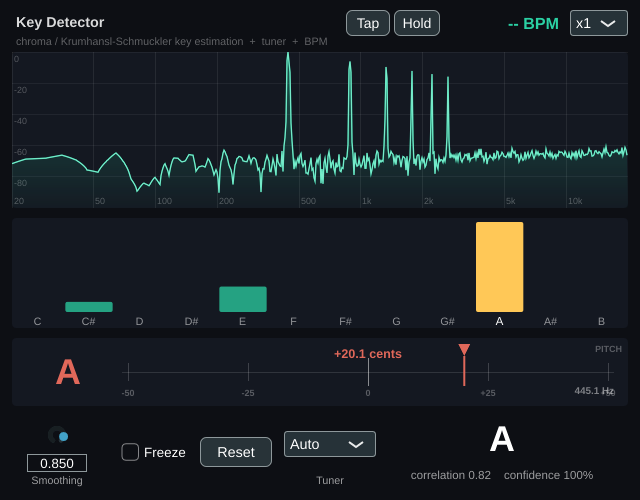
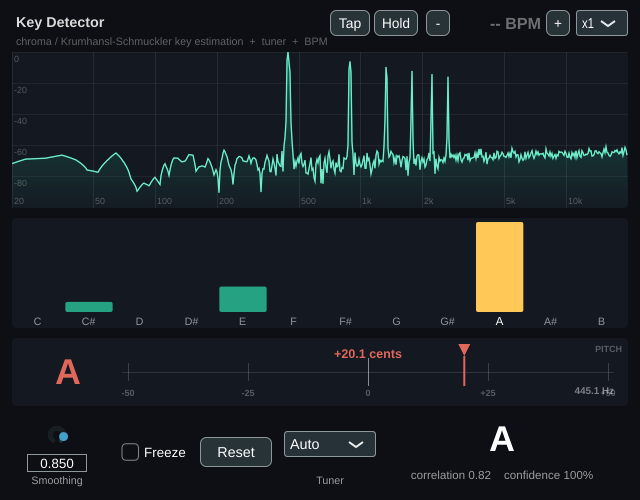
bpm ui: T/H shortcuts, -/+ fine-tune, and x-mult applies to held BPM
- Tap/Hold get keyboard shortcuts (T/H) via Button::addShortcut; editor wants
  keyboard focus (EDITOR_WANTS_KEYBOARD_FOCUS TRUE).
- Add -/+ buttons to fine-tune BPM by 0.1 (auto-engages Hold).
- Move the x0.5/x1/x2 multiplier from the processor into the editor so it rescales
  the base *and* a held value; processor now publishes the raw estimate.
- BPM readout is fully numeric now: displayed = base*factor (+ fineOffset when
  held); base = tap or audio estimate, or the value captured at Hold.

Changed region(s): [[0.5, 0.0, 0.7188, 0.09], [0.7812, 0.0, 0.9375, 0.09]]

diff --git a/Source/PluginEditor.cpp b/Source/PluginEditor.cpp
@@ -28,14 +28,16 @@ KeyDetectorAudioProcessorEditor::KeyDetectorAudioProcessorEditor (KeyDetectorAud
     bpmLabel.setText ("-- BPM", juce::dontSendNotification);
     addAndMakeVisible (bpmLabel);
 
-    // BPM octave multiplier (fixes half/double-time), next to the tempo readout.
+    // BPM octave multiplier (fixes half/double-time; also rescales a held BPM).
     tempoMultBox.addItemList ({ "x0.5", "x1", "x2" }, 1);
-    tempoMultBox.setTooltip ("Halve / double the detected BPM");
+    tempoMultBox.setTooltip ("Halve / double the BPM (also rescales a held value)");
     addAndMakeVisible (tempoMultBox);
     tempoMultAttachment = std::make_unique<ComboBoxAttachment> (
         processorRef.apvts, "tempoMult", tempoMultBox);
 
-    // Tap tempo: derive BPM from the spacing of button presses.
+    // Tap tempo (shortcut: T): derive BPM from the spacing of button presses.
+    tapButton.setTooltip ("Tap tempo (shortcut: T)");
+    tapButton.addShortcut (juce::KeyPress ('t'));
     addAndMakeVisible (tapButton);
     tapButton.onClick = [this]
     {
@@ -59,14 +61,41 @@ KeyDetectorAudioProcessorEditor::KeyDetectorAudioProcessorEditor (KeyDetectorAud
         holdButton.setToggleState (false, juce::dontSendNotification);
     };
 
-    // Hold: freeze the BPM read-out at its current value.
+    // Hold (shortcut: H): freeze the BPM read-out; captures the current base value.
     holdButton.setClickingTogglesState (true);
+    holdButton.setTooltip ("Freeze the BPM (shortcut: H). Then use -/+ and x0.5/x1/x2.");
+    holdButton.addShortcut (juce::KeyPress ('h'));
     addAndMakeVisible (holdButton);
     holdButton.onClick = [this]
     {
         if (holdButton.getToggleState())
-            heldBpmText = lastLiveBpmText; // capture whatever is shown right now
+        {
+            heldBaseBpm = currentLiveBase > 0.0 ? currentLiveBase
+                        : (tappedBpm > 0.0 ? tappedBpm : 120.0);
+            fineOffset  = 0.0;
+        }
     };
+
+    // Fine-tune -/+ (engages Hold if not already held).
+    auto nudge = [this] (double delta)
+    {
+        if (! holdButton.getToggleState())
+        {
+            heldBaseBpm = currentLiveBase > 0.0 ? currentLiveBase
+                        : (tappedBpm > 0.0 ? tappedBpm : 120.0);
+            fineOffset  = 0.0;
+            holdButton.setToggleState (true, juce::dontSendNotification);
+        }
+        fineOffset += delta;
+    };
+    bpmDownButton.setTooltip ("Fine-tune BPM down (-0.1)");
+    bpmUpButton  .setTooltip ("Fine-tune BPM up (+0.1)");
+    bpmDownButton.onClick = [nudge] { nudge (-0.1); };
+    bpmUpButton  .onClick = [nudge] { nudge (+0.1); };
+    addAndMakeVisible (bpmDownButton);
+    addAndMakeVisible (bpmUpButton);
+
+    setWantsKeyboardFocus (true); // so the T / H shortcuts are received
 
     // --- Controls ---------------------------------------------------------------
     smoothingSlider.setSliderStyle (juce::Slider::RotaryHorizontalVerticalDrag);
@@ -128,16 +157,18 @@ void KeyDetectorAudioProcessorEditor::resized()
 {
     auto area = getLocalBounds().reduced (12);
 
-    // Header row (top-right): [Tap][Hold]  BPM  [×½/×1/×2]
+    // Header row (top-right): [Tap][Hold]  [-] BPM [+]  [×½/×1/×2]
     {
         auto header = juce::Rectangle<int> (area.getX(), 10, area.getWidth(), 26);
-        tempoMultBox.setBounds (header.removeFromRight (58));
+        tempoMultBox.setBounds (header.removeFromRight (52));
         header.removeFromRight (6);
-        bpmLabel.setBounds (header.removeFromRight (116));
+        bpmUpButton.setBounds (header.removeFromRight (24));
+        bpmLabel.setBounds (header.removeFromRight (96));
+        bpmDownButton.setBounds (header.removeFromRight (24));
         header.removeFromRight (8);
-        holdButton.setBounds (header.removeFromRight (46));
+        holdButton.setBounds (header.removeFromRight (44));
         header.removeFromRight (4);
-        tapButton.setBounds (header.removeFromRight (44));
+        tapButton.setBounds (header.removeFromRight (40));
     }
 
     area.removeFromTop (40); // header
@@ -190,33 +221,37 @@ void KeyDetectorAudioProcessorEditor::timerCallback()
     chroma.setTonic (est.pitchClass, est.isMinor);
     chroma.repaint();
 
-    // Tempo read-out: Hold (frozen) > Tap (recent taps) > audio estimate.
-    // Source is shown by colour: green = audio, blue = tap, amber = hold.
-    const double now = juce::Time::getMillisecondCounterHiRes();
+    // Tempo read-out.  Colour: green = audio, blue = tapped, amber = held.
+    // The ×½/×1/×2 multiplier and the -/+ fine-tune apply to whatever the base is
+    // (live estimate/tap, or the value captured when Hold engaged).
+    const double now      = juce::Time::getMillisecondCounterHiRes();
     const bool   tapValid = tappedBpm > 0.0 && (now - lastTapMs) < 5000.0;
+    const double factor   = tempoMultFactor();
 
-    juce::Colour bpmColour = juce::Colour (0xff2bd1a4);
-    if (tapValid)
-    {
-        lastLiveBpmText = juce::String (tappedBpm, 1) + " BPM";
-        bpmColour = juce::Colour (0xff6ea8ff);
-    }
-    else
-    {
-        const double bpm = processorRef.getBpm();
-        lastLiveBpmText = (bpm > 0.0 && processorRef.getBpmConfidence() >= 0.25f)
-                              ? juce::String (bpm, 1) + " BPM" : "-- BPM";
-    }
+    const double audioBpm = processorRef.getBpm();
+    const bool   audioOk  = audioBpm > 0.0 && processorRef.getBpmConfidence() >= 0.25f;
+    currentLiveBase = tapValid ? tappedBpm : (audioOk ? audioBpm : 0.0);
 
+    juce::String txt;
+    juce::Colour bpmColour;
     if (holdButton.getToggleState())
     {
-        bpmLabel.setText (heldBpmText, juce::dontSendNotification);
-        bpmColour = juce::Colour (0xffffc857);
+        const double v = juce::jlimit (20.0, 400.0, heldBaseBpm * factor + fineOffset);
+        txt = juce::String (v, 1) + " BPM";
+        bpmColour = juce::Colour (0xffffc857);            // amber = held
+    }
+    else if (currentLiveBase > 0.0)
+    {
+        txt = juce::String (currentLiveBase * factor, 1) + " BPM";
+        bpmColour = tapValid ? juce::Colour (0xff6ea8ff)  // blue = tapped
+                             : juce::Colour (0xff2bd1a4);  // green = audio
     }
     else
     {
-        bpmLabel.setText (lastLiveBpmText, juce::dontSendNotification);
+        txt = "-- BPM";
+        bpmColour = juce::Colours::white.withAlpha (0.4f);
     }
+    bpmLabel.setText (txt, juce::dontSendNotification);
     bpmLabel.setColour (juce::Label::textColourId, bpmColour);
 
     // Tuner (falls back to the loudest spectral peak for percussion/inharmonic input).
@@ -244,5 +279,15 @@ void KeyDetectorAudioProcessorEditor::timerCallback()
         keyLabel.setText ("--", juce::dontSendNotification);
         detailLabel.setText (chromaSum > 1.0e-4f ? "no clear key" : "waiting for audio...",
                              juce::dontSendNotification);
+    }
+}
+
+double KeyDetectorAudioProcessorEditor::tempoMultFactor() const
+{
+    switch (tempoMultBox.getSelectedId()) // ids: 1=x0.5, 2=x1, 3=x2
+    {
+        case 1:  return 0.5;
+        case 3:  return 2.0;
+        default: return 1.0;
     }
 }

diff --git a/Source/PluginEditor.h b/Source/PluginEditor.h
@@ -21,6 +21,7 @@ public:
 
 private:
     void timerCallback() override;
+    double tempoMultFactor() const;   // 0.5 / 1 / 2 from the selector
 
     KeyDetectorAudioProcessor& processorRef;
 
@@ -42,6 +43,8 @@ private:
     juce::ComboBox     tempoMultBox;   // BPM ×½ / ×1 / ×2
     juce::TextButton   tapButton  { "Tap" };
     juce::TextButton   holdButton { "Hold" };
+    juce::TextButton   bpmDownButton { "-" };
+    juce::TextButton   bpmUpButton   { "+" };
 
     using SliderAttachment = juce::AudioProcessorValueTreeState::SliderAttachment;
     using ButtonAttachment = juce::AudioProcessorValueTreeState::ButtonAttachment;
@@ -53,12 +56,13 @@ private:
 
     std::vector<float> spectrumScratch; // reused each timer tick
 
-    // Tap-tempo + BPM hold state (UI-side).
+    // Tap-tempo + BPM hold/fine-tune state (UI-side).
     std::vector<double> tapTimes;        // recent tap timestamps (ms)
-    double  lastTapMs   = 0.0;
-    double  tappedBpm   = 0.0;
-    juce::String lastLiveBpmText { "-- BPM" };
-    juce::String heldBpmText     { "-- BPM" };
+    double  lastTapMs       = 0.0;
+    double  tappedBpm       = 0.0;
+    double  currentLiveBase = 0.0;       // latest live (pre-multiplier) BPM
+    double  heldBaseBpm     = 0.0;       // base captured when Hold engaged
+    double  fineOffset      = 0.0;       // +/- fine-tune added while held
 
     JUCE_DECLARE_NON_COPYABLE_WITH_LEAK_DETECTOR (KeyDetectorAudioProcessorEditor)
 };

diff --git a/Source/PluginProcessor.cpp b/Source/PluginProcessor.cpp
@@ -13,7 +13,6 @@ KeyDetectorAudioProcessor::KeyDetectorAudioProcessor()
     smoothingParam = apvts.getRawParameterValue ("smoothing");
     freezeParam    = apvts.getRawParameterValue ("freeze");
     tunerModeParam = apvts.getRawParameterValue ("tunerMode");
-    tempoMultParam = apvts.getRawParameterValue ("tempoMult");
 
     publishedSpectrum.assign ((size_t) numBins, 0.0f);
 }
@@ -327,11 +326,11 @@ void KeyDetectorAudioProcessor::processBlock (juce::AudioBuffer<float>& buffer,
             pushSampleToFifo (mono);
         }
 
-        // Estimate tempo (BPM) from the audio itself (not the host clock).
+        // Estimate tempo (BPM) from the audio itself (not the host clock).  The
+        // ×½/×1/×2 multiplier and fine-tune are applied in the editor so they can
+        // also modify a held value.
         tempoEstimator.processMono (monoScratch.data(), numSamples);
-        const int   mi = tempoMultParam != nullptr ? (int) (tempoMultParam->load() + 0.5f) : 1;
-        const float mult = mi == 0 ? 0.5f : (mi == 2 ? 2.0f : 1.0f);
-        publishedBpm.store     ((double) (tempoEstimator.getBpm() * mult));
+        publishedBpm.store     ((double) tempoEstimator.getBpm());
         publishedBpmConf.store (tempoEstimator.getConfidence());
     }
 }

diff --git a/Source/PluginProcessor.h b/Source/PluginProcessor.h
@@ -165,7 +165,7 @@ private:
     std::atomic<float>* smoothingParam = nullptr;
     std::atomic<float>* freezeParam    = nullptr;
     std::atomic<float>* tunerModeParam = nullptr; // 0=Auto, 1=Pitch, 2=Peak
-    std::atomic<float>* tempoMultParam = nullptr; // 0=x0.5, 1=x1, 2=x2
+    // (tempoMult is applied in the editor so it can also modify a held BPM.)
 
     // ---- Published analysis state (audio thread -> GUI thread) ------------------
     std::array<std::atomic<float>, 12> publishedChroma {};

diff --git a/README.md b/README.md
@@ -123,10 +123,12 @@ range, gated by an onset-activity (crest) test so sustained material reads
 `-- BPM` instead of a spurious tempo.
 
 Controls next to the read-out:
-- **Tap** – tap in time; the BPM is derived from your tap spacing (overrides the
-  estimate for ~5 s; blue text).
-- **Hold** – freeze the current read-out at its value (amber text).
-- **×½ / ×1 / ×2** – lock the tempo octave if a track reads half/double-time.
+- **Tap** *(shortcut: T)* – tap in time; the BPM is derived from your tap spacing
+  (overrides the estimate for ~5 s; blue text).
+- **Hold** *(shortcut: H)* – freeze the read-out at its current value (amber text).
+- **− / +** – fine-tune the BPM by ±0.1 (engages Hold automatically).
+- **×½ / ×1 / ×2** – rescale the BPM (fixes half/double-time); while held, this
+  rescales the held value too.
 
 Colour code: green = estimated from audio, blue = tapped, amber = held. See
 `Source/TempoEstimator.*` and `tests/TempoEstimatorTest.cpp`.
